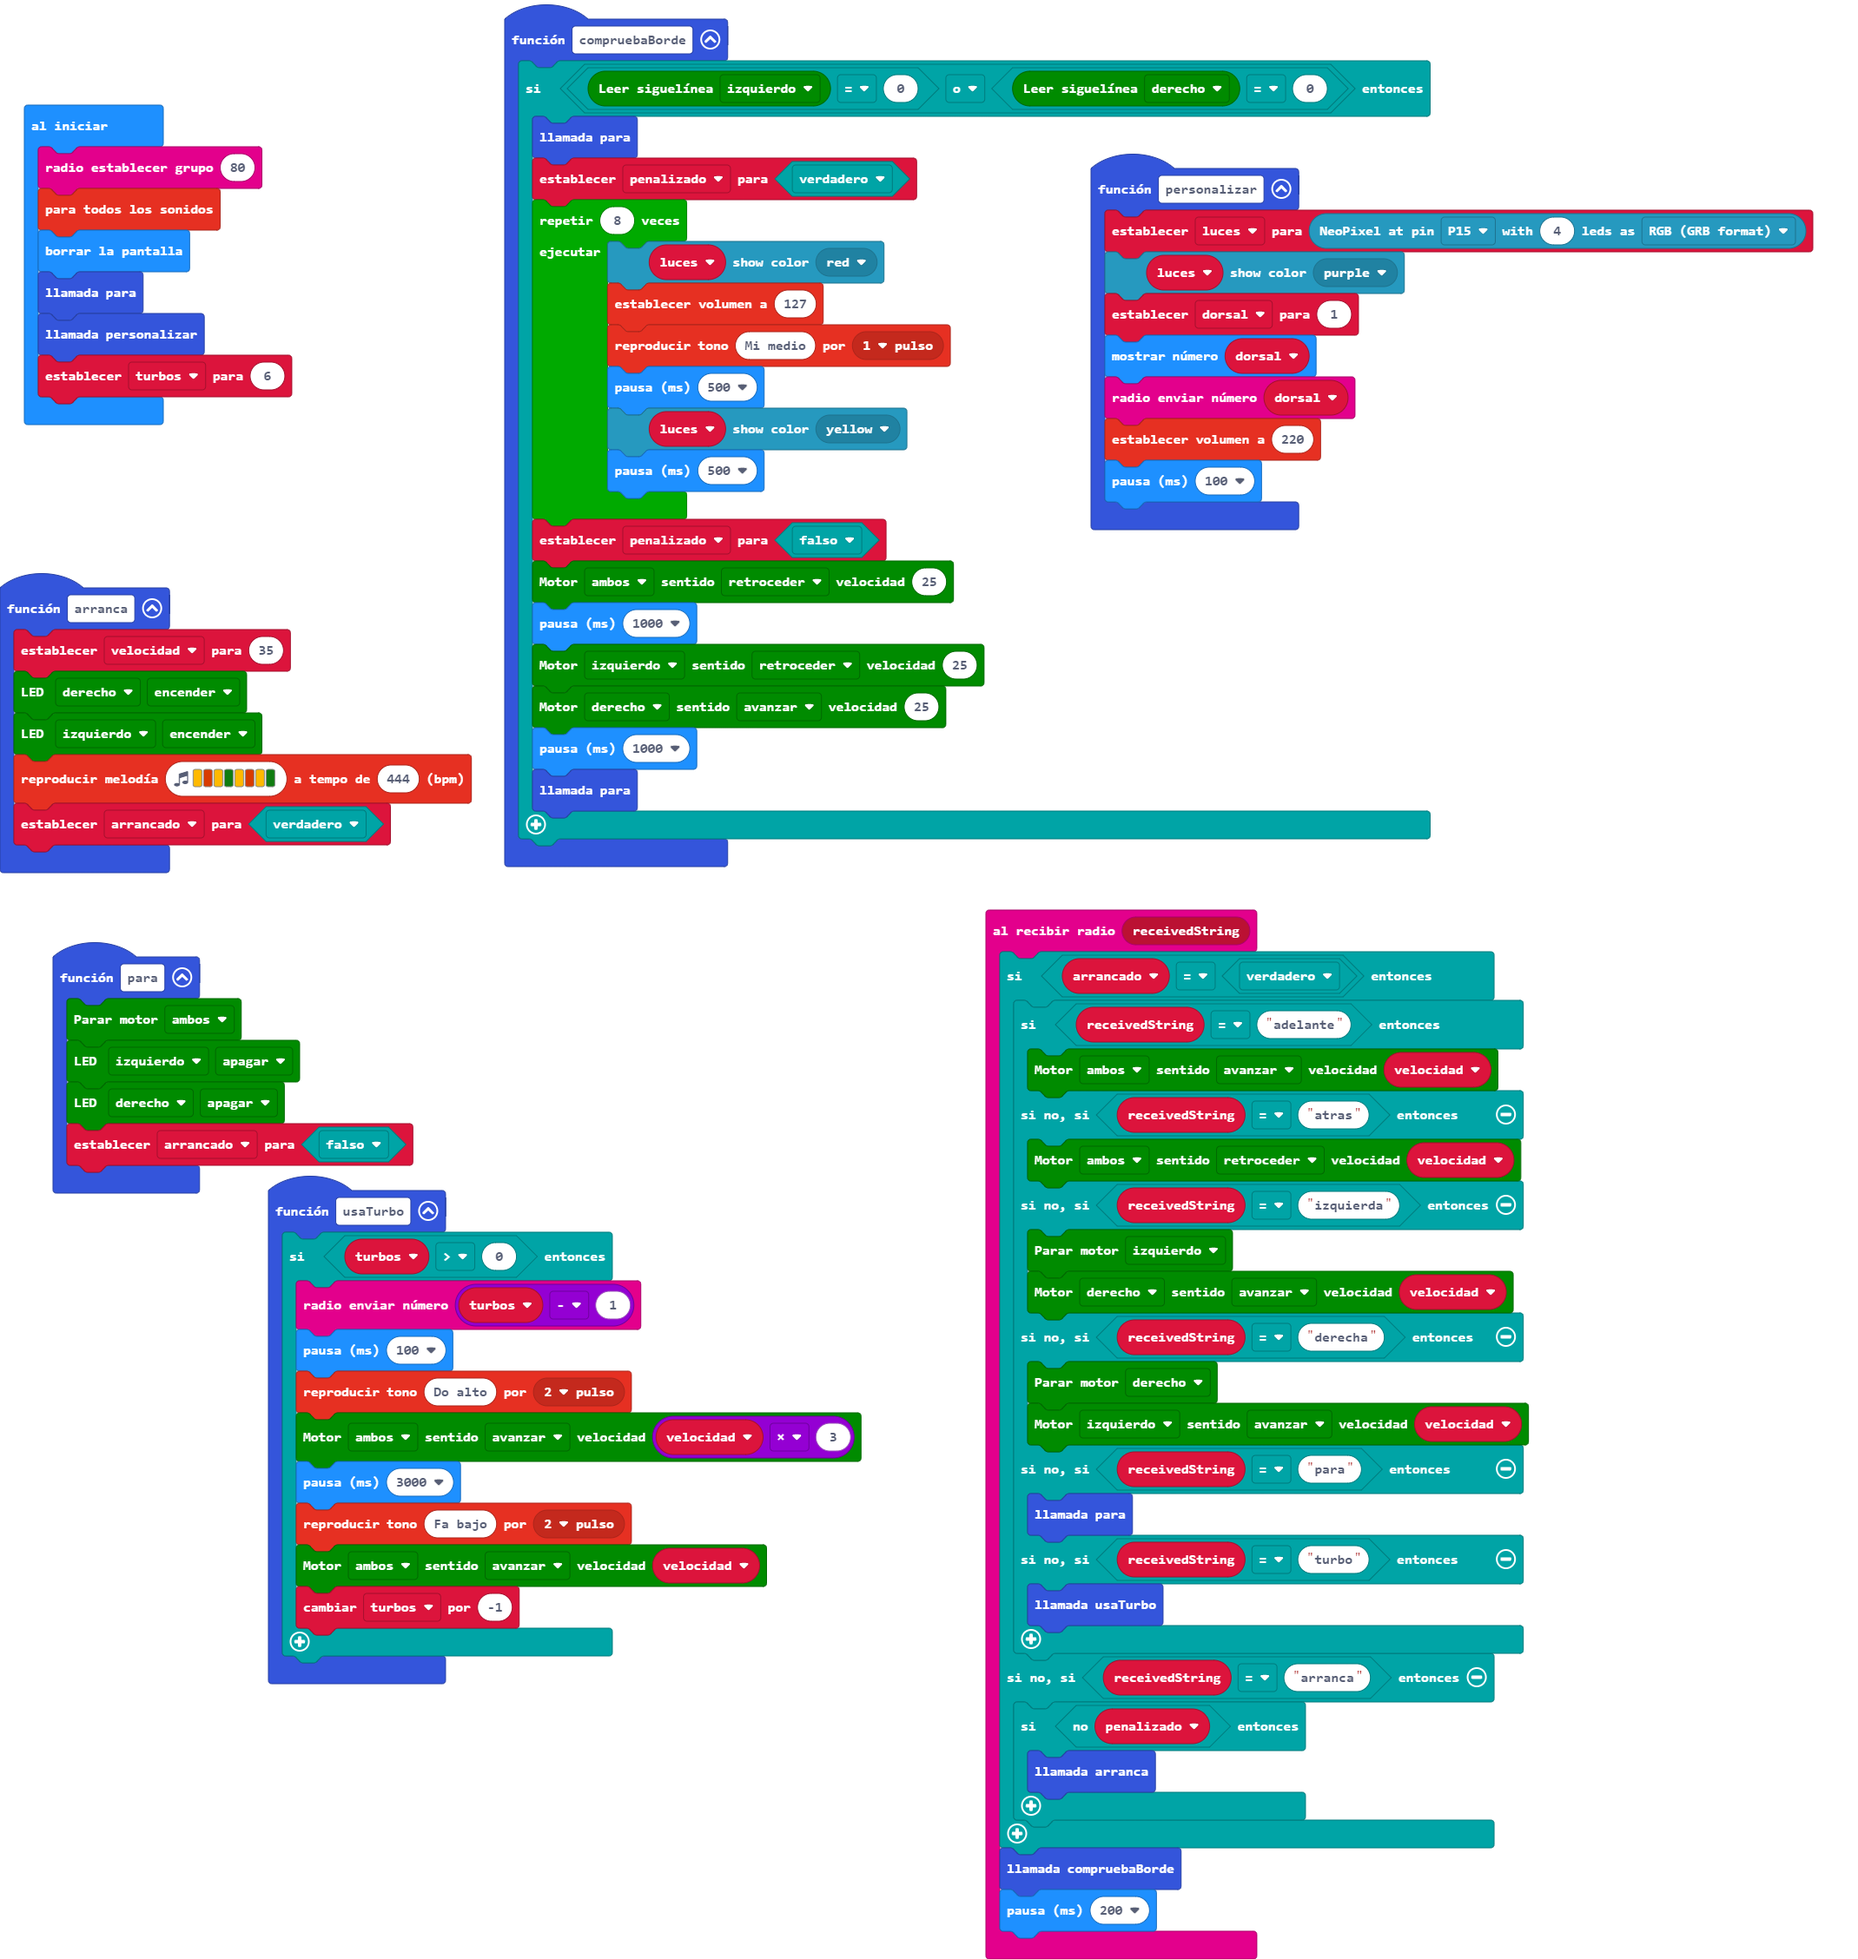
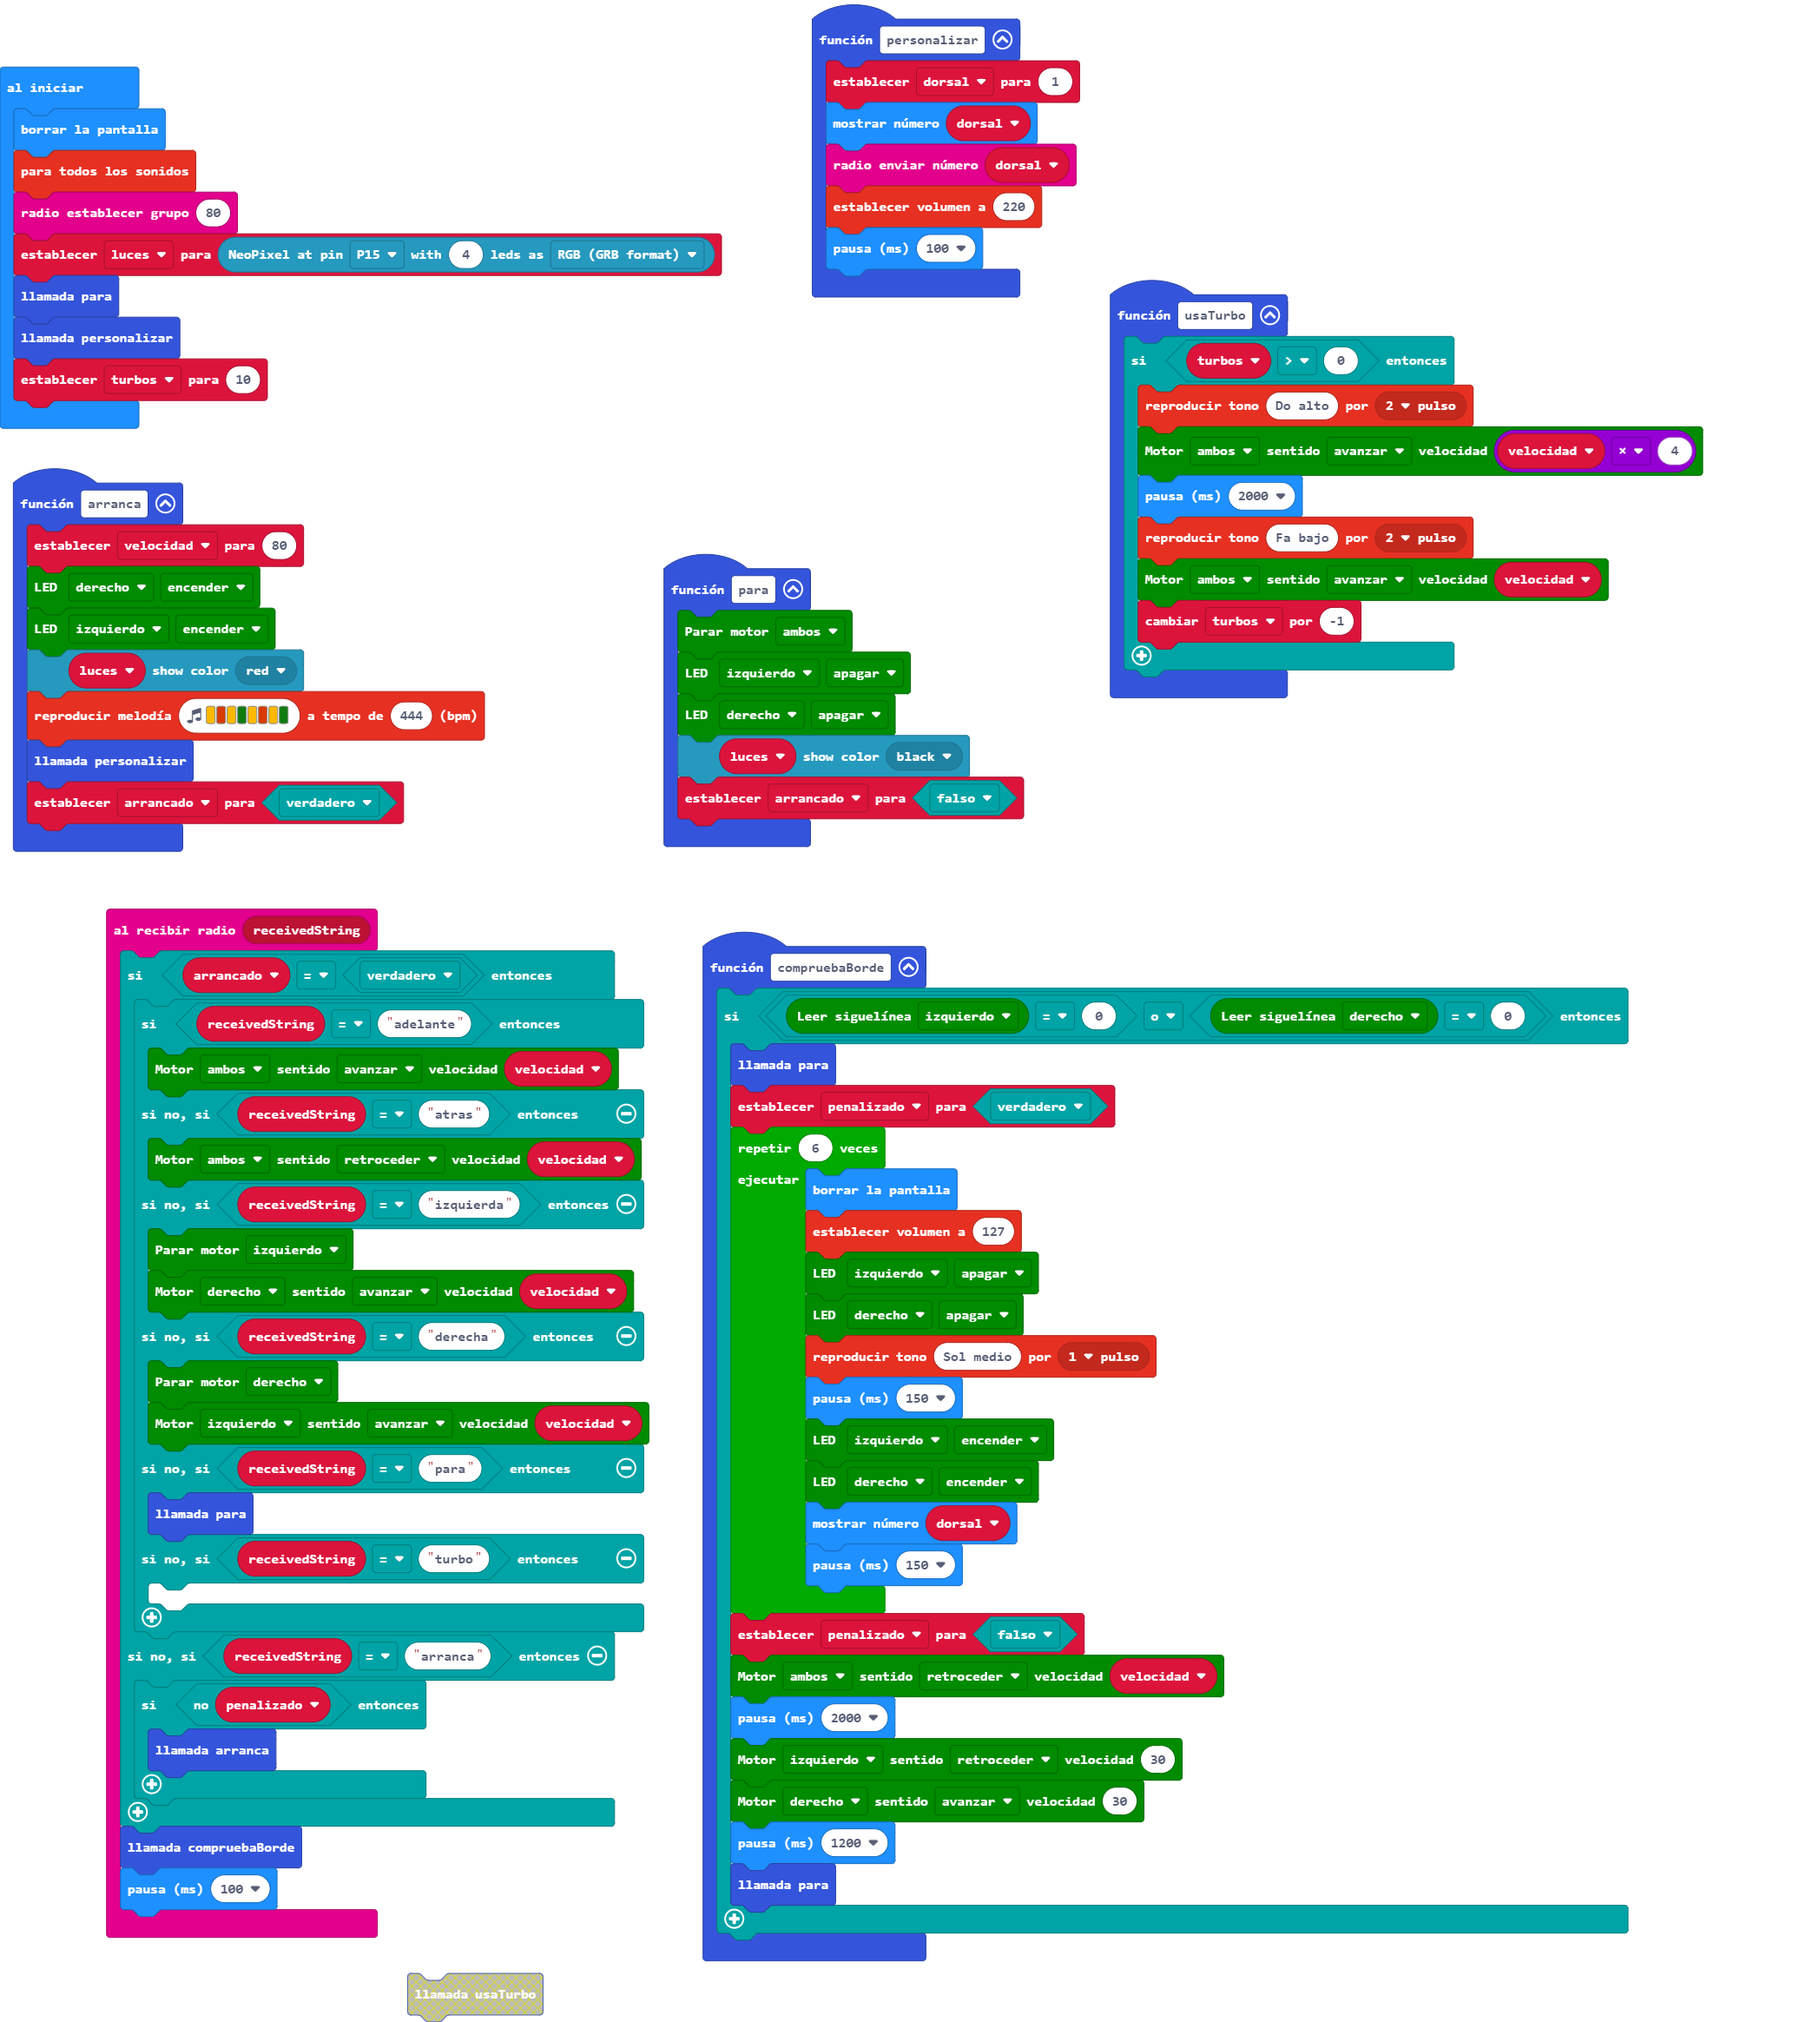
Cambios tras la primera sesión de la feria. Quito turbo para que el número de turbos restantes no confunda al conductor, que deja de ver el dorsal de su coche. Apago leds de colores cuando paro. Amplio tiempo marcha atrás. Aumento velocidad.

diff --git a/main.ts b/main.ts
@@ -1,14 +1,17 @@
 function arranca () {
-    velocidad = 35
+    velocidad = 80
     maqueen.writeLED(maqueen.LED.LEDLeft, maqueen.LEDswitch.turnOn)
     maqueen.writeLED(maqueen.LED.LEDRight, maqueen.LEDswitch.turnOn)
+    luces.showColor(neopixel.colors(NeoPixelColors.Red))
     music.playMelody("A B A G A B A G ", 444)
+    personalizar()
     arrancado = true
 }
 function para () {
     maqueen.motorStop(maqueen.Motors.All)
     maqueen.writeLED(maqueen.LED.LEDRight, maqueen.LEDswitch.turnOff)
     maqueen.writeLED(maqueen.LED.LEDLeft, maqueen.LEDswitch.turnOff)
+    luces.showColor(neopixel.colors(NeoPixelColors.Black))
     arrancado = false
 }
 radio.onReceivedString(function (receivedString) {
@@ -26,7 +29,7 @@ radio.onReceivedString(function (receivedString) {
         } else if (receivedString == "para") {
             para()
         } else if (receivedString == "turbo") {
-            usaTurbo()
+        	
         }
     } else if (receivedString == "arranca") {
         if (!(penalizado)) {
@@ -34,11 +37,9 @@ radio.onReceivedString(function (receivedString) {
         }
     }
     compruebaBorde()
-    basic.pause(200)
+    basic.pause(100)
 })
 function personalizar () {
-    luces = neopixel.create(DigitalPin.P15, 4, NeoPixelMode.RGB)
-    luces.showColor(neopixel.colors(NeoPixelColors.Purple))
     dorsal = 1
     basic.showNumber(dorsal)
     radio.sendNumber(dorsal)
@@ -49,44 +50,47 @@ function compruebaBorde () {
     if (maqueen.readPatrol(maqueen.Patrol.PatrolLeft) == 0 || maqueen.readPatrol(maqueen.Patrol.PatrolRight) == 0) {
         para()
         penalizado = true
-        for (let index = 0; index < 8; index++) {
-            luces.showColor(neopixel.colors(NeoPixelColors.Red))
+        for (let index = 0; index < 6; index++) {
+            basic.clearScreen()
             music.setVolume(127)
-            music.playTone(330, music.beat(BeatFraction.Whole))
-            basic.pause(500)
-            luces.showColor(neopixel.colors(NeoPixelColors.Yellow))
-            basic.pause(500)
+            maqueen.writeLED(maqueen.LED.LEDRight, maqueen.LEDswitch.turnOff)
+            maqueen.writeLED(maqueen.LED.LEDLeft, maqueen.LEDswitch.turnOff)
+            music.playTone(392, music.beat(BeatFraction.Whole))
+            basic.pause(150)
+            maqueen.writeLED(maqueen.LED.LEDRight, maqueen.LEDswitch.turnOn)
+            maqueen.writeLED(maqueen.LED.LEDLeft, maqueen.LEDswitch.turnOn)
+            basic.showNumber(dorsal)
+            basic.pause(150)
         }
         penalizado = false
-        maqueen.motorRun(maqueen.Motors.All, maqueen.Dir.CCW, 25)
-        basic.pause(1000)
-        maqueen.motorRun(maqueen.Motors.M1, maqueen.Dir.CCW, 25)
-        maqueen.motorRun(maqueen.Motors.M2, maqueen.Dir.CW, 25)
-        basic.pause(1000)
+        maqueen.motorRun(maqueen.Motors.All, maqueen.Dir.CCW, velocidad)
+        basic.pause(2000)
+        maqueen.motorRun(maqueen.Motors.M1, maqueen.Dir.CCW, 30)
+        maqueen.motorRun(maqueen.Motors.M2, maqueen.Dir.CW, 30)
+        basic.pause(1200)
         para()
     }
 }
 function usaTurbo () {
     if (turbos > 0) {
-        radio.sendNumber(turbos - 1)
-        basic.pause(100)
         music.playTone(523, music.beat(BeatFraction.Double))
-        maqueen.motorRun(maqueen.Motors.All, maqueen.Dir.CW, velocidad * 3)
-        basic.pause(3000)
+        maqueen.motorRun(maqueen.Motors.All, maqueen.Dir.CW, velocidad * 4)
+        basic.pause(2000)
         music.playTone(175, music.beat(BeatFraction.Double))
         maqueen.motorRun(maqueen.Motors.All, maqueen.Dir.CW, velocidad)
         turbos += -1
     }
 }
 let dorsal = 0
-let luces: neopixel.Strip = null
 let penalizado = false
 let arrancado = false
 let velocidad = 0
 let turbos = 0
-radio.setGroup(80)
-music.stopAllSounds()
+let luces: neopixel.Strip = null
 basic.clearScreen()
+music.stopAllSounds()
+radio.setGroup(80)
+luces = neopixel.create(DigitalPin.P15, 4, NeoPixelMode.RGB)
 para()
 personalizar()
-turbos = 6
+turbos = 10
